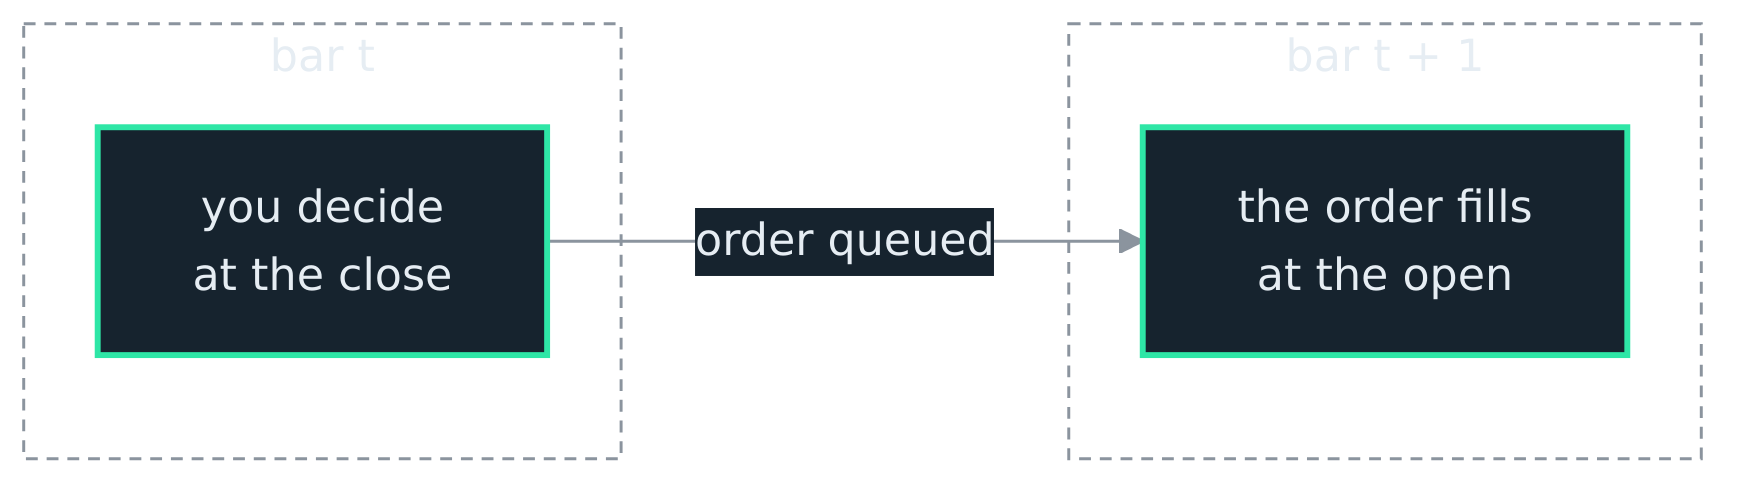
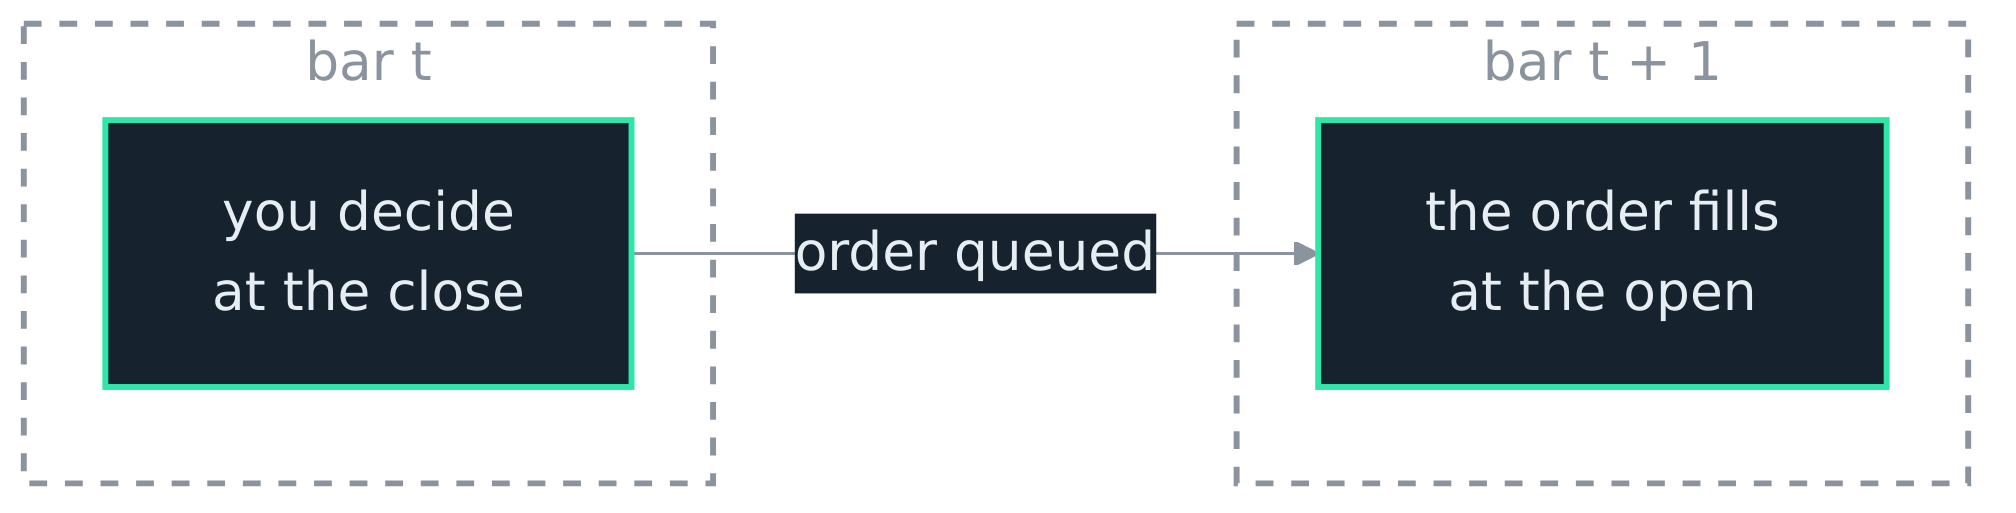
docs: every diagram gets its source and one pipeline (ADR 0087)
ADR 0085 settled this for the fourteen chart images and left the five hand-made
diagrams half done: one had its mermaid source here, four were PNG alone with
their originals never kept. Half a rule reads as a rule and is not one.

- dev/diagrams/205310.mmd, 205312.mmd, 205316.mmd, 205318.mmd: reconstructed by
  reading the rendered PNGs, so a rerun redraws them rather than reproducing
  them. 205314 is the control: its source survived, and it still renders byte
  for byte identical, which is what says the pipeline is faithful and not just
  working
- Dockerfile: a `diagrams` stage rendering the whole set, the same shape the
  charts stage already had. Its entrypoint is mmdc itself so the stage clears it
  and calls the binary by path, and no `-w`: setting a width made every wide
  diagram 2304 across where the committed pair are 2352
- dev/diagrams/config.json: name the cluster and edge-label colours. Mermaid
  derives whatever a partial palette leaves out, and left to itself it drew the
  no-lookahead bar frames as opaque brown boxes. The committed image had been
  right only for as long as nobody re-rendered it
- .Documentation/imgs: all five now are what the stage produces, verified by
  running it and comparing every byte
- .Documentation/Contributor_Guide.md: the two commands, and the three things
  the setup depends on that each cost an afternoon

diff --git a/.Documentation/Decisions.md b/.Documentation/Decisions.md
@@ -235,3 +235,5 @@ The library is a stack of layers, and the one rule is that logic flows up, never
 **A documentation picture is built from data that cannot move (0085).** Fourteen chart images ship with the documentation, and twelve of them were already drawn from a frozen parquet, which is what makes a documented example and the picture beneath it unable to drift apart. The two whole charts were not. They pulled a year of hourly candles from the router at the moment they happened to be run, so the picture on the front page of the README was the one nobody could reproduce and the one nearly everybody sees: re-running it did not regenerate it, it drew a different year, which means it could never be checked against anything and a defect in it could only ever be found by eye. Both now read the same published five-minute dataset, and the generator lives in `dev/charts` rather than in a scratch folder beside the repository (ADR 0084). The evidence that the move cost nothing is that thirteen of the fourteen images came back byte for byte identical to the ones already committed, including the projection chart, which was rewritten from a notebook into a function on the way; the fourteenth is the one that had been live. The trap found doing it is worth recording, because it is silent. The chart asks for `system-ui, -apple-system, "Segoe UI", sans-serif` and a container has none of the first three, so every label in every image is drawn by whatever that particular box resolves `sans-serif` to. The browser image resolves it to a CJK face whose latin glyphs are narrower and lighter, so the first run re-rendered the entire documentation set in a font nobody chose, and the only reason it was caught is that twelve images which should have been identical each came out three percent smaller. A picture is a test result like any other: if a rerun cannot produce it again, it is not evidence of anything.
 
 **A per-env cost is an argument like any other (0086).** ADR 0027 says every argument crossing into the engine gets the same treatment, and for the four per-env cost arrays that was false. `build_config` validated the scalars, and the arrays went through a separate path that checked contiguity and length and nothing else, so they were the one way past every range guard in the boundary. `emsl.Batch(data, num_envs=2, fee_taker_per_env=[-2.0, -2.0])` was accepted where `fee_taker=-2.0` is refused, and on a perp four buys of five units took equity from 10,000 to 14,000: a rebate larger than the notional, minted out of a fill that cost nothing. The reinforcement learning surface reached it in the ordinary way rather than by contriving an array, because ADR 0014's `(low, high)` range hands `build_config` only the high end, on the reasoning that the expensive end is the safe thing to fall back to; a range straddling the floor therefore passed the guard on 0.0 and handed the negative draws to the unchecked array, so `VectorEnv(fee_taker=(-2.0, 0.0))` built happily and paid its envs to trade. Slippage and impact were accepted the same way and did no damage, because the fill model floors both at zero when it prices a taker (ADR 0004), which is defence in depth working exactly as intended and is also why nothing noticed for so long: three of the four holes were harmless and the fourth was not. The rule now lives in one function per kind and both paths call it, since a rule written twice is a rule two paths will eventually disagree about, which is the whole of what happened here. The range is checked in Python as well, on its lowest end, so the message names the range the caller typed rather than the array element it drew. Found by re-measuring the coverage audit rather than by a test, and worth recording for that reason: the claim had read as covered because a test asserted the scalars, and the arrays were a second path nobody had thought to point the same question at.
+
+**Every picture in the documentation is produced by something committed here (0087).** ADR 0085 said a picture a rerun cannot produce is not evidence of anything, and settled it for the fourteen chart images while leaving the five hand-made diagrams half done: one had its mermaid source in the repository and four existed as PNG alone, their originals never kept. Half a rule is worse than none, because it reads as a rule and is not one, and the four that could not be regenerated were exactly the four nobody would notice going stale, since a diagram of the crate layering does not fail a test when a crate moves. All five now have a `.mmd` beside them and one stage renders the set, the same shape the chart images already had. The four reconstructions were read back off their own PNGs, so a rerun redraws them rather than reproducing them, and the honest check on that is 205314: it is the one whose source survived, and it still renders byte for byte identical through the rebuilt pipeline, which is what distinguishes a pipeline that is faithful from one that merely runs. The reconstruction also turned up the reason the palette has to name more colours than it appears to need. Mermaid derives whatever a partial theme leaves out, and the derivation drew the no-lookahead diagram's bar frames as opaque brown boxes behind the nodes; the committed image had been correct for as long as nobody re-rendered it, which is the failure mode this decision exists to remove.

diff --git a/.Documentation/Contributor_Guide.md b/.Documentation/Contributor_Guide.md
@@ -83,15 +83,18 @@ Regenerating should change nothing unless the drawing changed, and that is the c
 
 `dev/golden.py` rewrites `tests/chart_schema.json`, the key-path golden for the chart spec. The renderer is JavaScript and the gate has no browser, so the contract between the two halves is the one thing a Python test cannot reach directly: a key renamed in `_chart.py` passes every test in the suite and draws a blank chart. Recording every key path the spec carries turns that rename into a one-line diff instead. Run it whenever the spec gains, loses or renames a key, and bump `schema` in `_chart.py` in the same commit. It imports the test module rather than rebuilding the fixture itself, so the golden cannot be recorded against a different chart from the one the test checks.
 
-`dev/diagrams/` holds the mermaid sources for the images in `.Documentation/imgs/`. They are in the repository because the originals were not kept and had to be reconstructed from the rendered PNGs, which is a thing to do once. Render one file per `docker run`, and never a loop inside `sh -c`:
+`dev/diagrams/` holds the mermaid source for every hand-made diagram in `.Documentation/imgs/`, one `.mmd` per image, and its own stage renders all of them ([ADR 0087](Decisions.md)):
 
 ```bash
-docker run --rm --shm-size=1g -v "${PWD}/dev/diagrams:/data" minlag/mermaid-cli \
-  -i /data/205314.mmd -o /data/205314.png \
-  -c /data/config.json -p /data/puppeteer.json -b transparent -s 3
+docker build --target diagrams -t emsl-diagrams .
+docker run --rm --shm-size=1g -v "${PWD}/.Documentation:/out" emsl-diagrams
 ```
 
-Then copy the PNG into `.Documentation/imgs/`. Two things the recipe depends on. The image's bundled headless-shell is broken with an ENOENT, so `puppeteer.json` points `executablePath` at `/usr/bin/chromium`. And the background has to be `transparent` rather than white, or the images invert badly against GitHub's dark mode. The palette in `config.json` is the project's own: node fill `#16232e`, a teal `#2ee6a6` border for the engine stages, a blue `#4d9feb` one for the entry point, `#e6edf3` text, `#8b949e` arrows, trebuchet sans. The images are numbered rather than named and the descriptive name survives only in their alt text: 205310 is the README hero, 205312 the crate layering, 205314 the step lifecycle, 205316 no-lookahead, 205318 the RL loop. Only 205314 has its source here so far; the rest are still PNG alone, and reconstructing one is the price of changing it.
+The images are numbered rather than named and the descriptive name survives only in their alt text: 205310 is the README hero, 205312 the crate layering, 205314 the step lifecycle, 205316 no-lookahead, 205318 the RL loop. Four of the five were reconstructed by reading the rendered PNG, because the originals were never kept, so a rerun redraws them rather than reproducing them byte for byte; 205314 is the one whose source survived and it still renders identical, which is what says the pipeline is faithful rather than merely working.
+
+Three things the setup depends on, each of which cost an afternoon. The image's bundled headless-shell is broken with an ENOENT, so `puppeteer.json` points `executablePath` at the chromium the image also ships, and its entrypoint is `mmdc` itself, so the stage clears it and calls the binary by full path. The background has to be `transparent` rather than white, or the images invert badly against GitHub's dark mode. And no `-w`: setting a width made every wide diagram 2304 across where the rest are 2352.
+
+The palette in `config.json` is the project's own: node fill `#16232e`, a teal `#2ee6a6` border for an engine stage, a blue `#4d9feb` one for anything the caller invokes, `#e6edf3` text, `#8b949e` arrows, trebuchet sans. It also names the cluster and edge-label colours, which look like padding and are not: mermaid derives whatever the palette leaves out, and left to itself it drew the no-lookahead frames as opaque brown boxes.
 
 <br>
 
